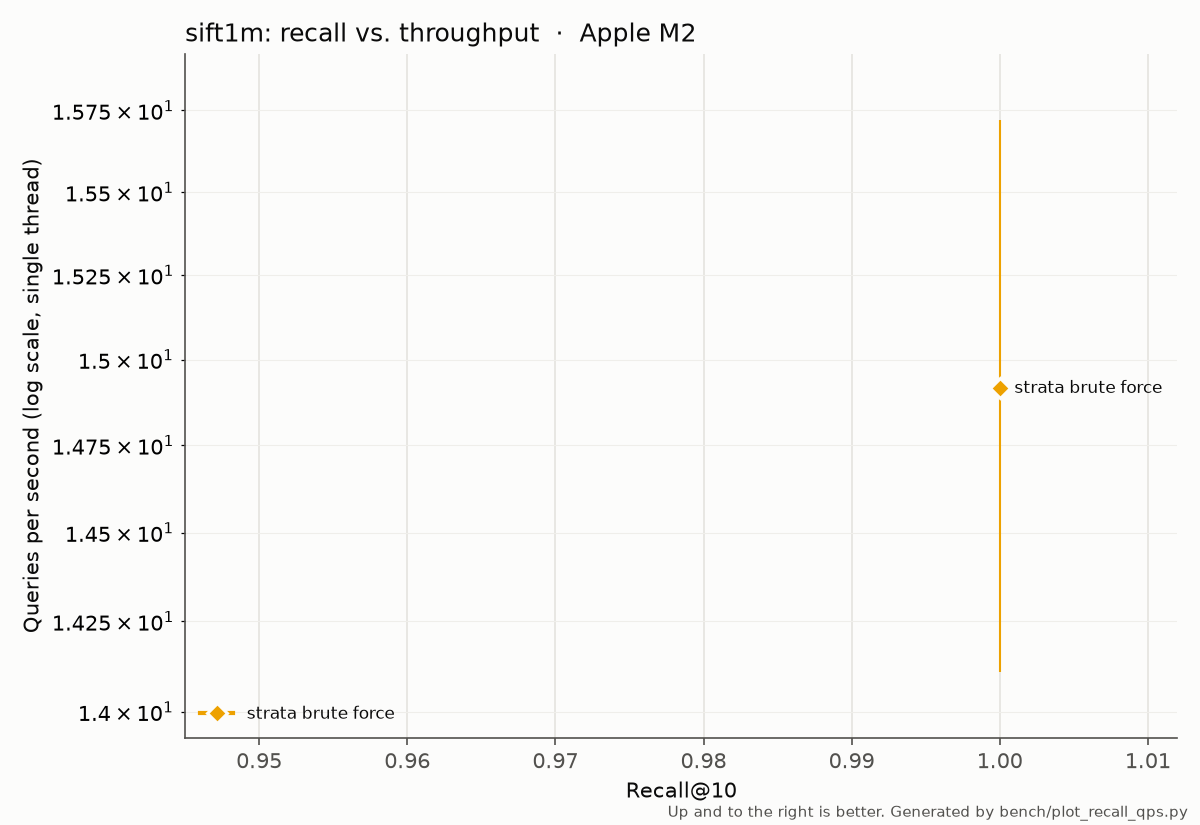
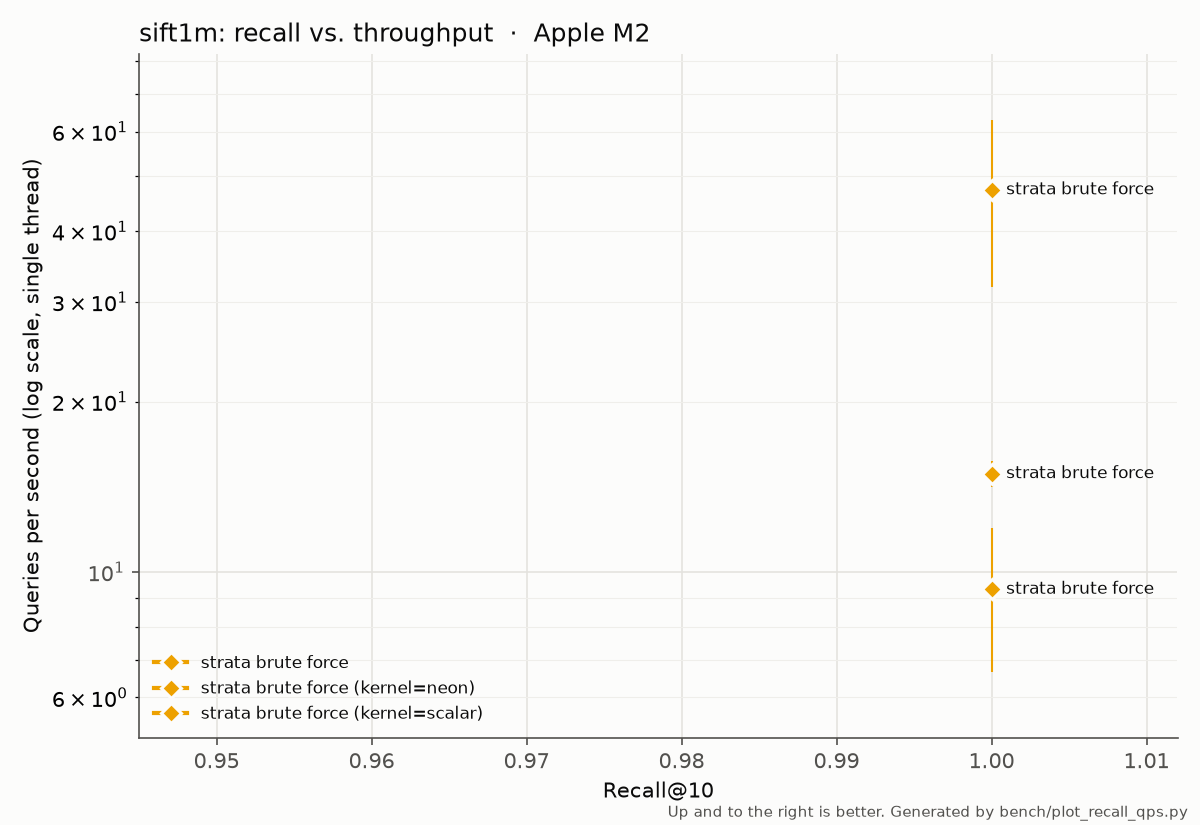
Bench: unique result filenames (microseconds) and never overwrite
Three thread-scaling runs on SIFT10K finished within one second and
overwrote each other's result file.

diff --git a/bench/run_micro_bench.py b/bench/run_micro_bench.py
@@ -14,7 +14,7 @@ import sys
 import tempfile
 from pathlib import Path
 
-from benchmeta import REPO_ROOT, metadata, timestamp_slug
+from benchmeta import REPO_ROOT, metadata, timestamp_slug, write_new
 
 
 def main(argv: list[str] | None = None) -> int:
@@ -49,9 +49,8 @@ def main(argv: list[str] | None = None) -> int:
         print("warning: Google Benchmark library is a debug build", file=sys.stderr)
 
     record = {**metadata(), "command": cmd, "benchmark": gbench}
-    args.out_dir.mkdir(parents=True, exist_ok=True)
     out_path = args.out_dir / f"{args.name}-{timestamp_slug()}.json"
-    out_path.write_text(json.dumps(record, indent=2) + "\n")
+    write_new(out_path, json.dumps(record, indent=2) + "\n")
     print(f"saved {out_path.relative_to(REPO_ROOT)}")
     return 0
 

diff --git a/bench/records.py b/bench/records.py
@@ -21,7 +21,7 @@ import statistics
 from pathlib import Path
 from typing import Any
 
-from benchmeta import REPO_ROOT, metadata, timestamp_slug
+from benchmeta import REPO_ROOT, metadata, timestamp_slug, write_new
 
 SUMMARY_FIELDS = [
     "qps",
@@ -83,8 +83,7 @@ def save_record(
         "raw": raw or {},
     }
     path = out_dir / dataset / f"{library}-{index}-{timestamp_slug()}.json"
-    path.parent.mkdir(parents=True, exist_ok=True)
-    path.write_text(json.dumps(record, indent=2) + "\n")
+    write_new(path, json.dumps(record, indent=2) + "\n")
     return path
 
 

diff --git a/bench/benchmeta.py b/bench/benchmeta.py
@@ -63,4 +63,12 @@ def metadata() -> dict[str, Any]:
 
 
 def timestamp_slug() -> str:
-    return dt.datetime.now().strftime("%Y%m%d-%H%M%S")
+    # Microseconds: short runs finish within the same second and must not share a filename.
+    return dt.datetime.now().strftime("%Y%m%d-%H%M%S-%f")
+
+
+def write_new(path: Path, text: str) -> None:
+    """Write a result file, refusing to overwrite an existing one."""
+    path.parent.mkdir(parents=True, exist_ok=True)
+    with path.open("x") as f:
+        f.write(text)

diff --git a/results/tables.md b/results/tables.md
@@ -7,6 +7,8 @@ Generated by `bench/make_tables.py`. Do not edit by hand.
 | Dataset | Library | Index | Build params | Search params | Machine | Threads | Runs | Recall@k | Recall@k by id | QPS | p50 µs | p99 µs | Build s | Commit |
 |---|---|---|---|---|---|---|---|---|---|---|---|---|---|---|
 | sift1m | strata | brute_force | — | — | Apple M2 | 1 | 3 | 1.0000 (k=10) | 0.9995 | 14.9 ± 0.8 | 63122.9 ± 1558.6 | 149750.7 ± 47282.8 | 0.19 | `d11955ac` |
+| sift1m | strata | brute_force | kernel=neon | — | Apple M2 | 1 | 3 | 1.0000 (k=10) | 0.9995 | 47.3 ± 15.5 | 13208.2 ± 1918.0 | 218304.1 ± 113923.0 | 0.53 | `73d32e6b` |
+| sift1m | strata | brute_force | kernel=scalar | — | Apple M2 | 1 | 3 | 1.0000 (k=10) | 0.9995 | 9.3 ± 2.7 | 82567.3 ± 18078.7 | 482507.4 ± 164686.1 | 0.21 | `73d32e6b` |
 | siftsmall | faiss | flat | — | — | Apple M2 | 1 | 5 | 1.0000 (k=10) | 1.0000 | 10228.5 ± 369.2 | 99.0 ± 2.4 | 158.4 ± 67.1 | 0.00 | `d11955ac` |
 | siftsmall | faiss | hnsw | M=16, ef_construction=200 | ef_search=10 | Apple M2 | 1 | 5 | 0.9170 (k=10) | 0.9170 | 190410.5 ± 3905.2 | 8.0 ± 0.3 | 12.9 ± 2.8 | 0.74 | `d11955ac` |
 | siftsmall | faiss | hnsw | M=16, ef_construction=200 | ef_search=20 | Apple M2 | 1 | 5 | 0.9750 (k=10) | 0.9750 | 91663.1 ± 31826.6 | 15.5 ± 8.4 | 34.2 ± 37.6 | 0.74 | `d11955ac` |
@@ -21,6 +23,9 @@ Generated by `bench/make_tables.py`. Do not edit by hand.
 | siftsmall | hnswlib | hnsw | M=16, ef_construction=200 | ef_search=160 | Apple M2 | 1 | 5 | 1.0000 (k=10) | 1.0000 | 8045.3 ± 127.6 | 130.7 ± 3.1 | 201.9 ± 36.1 | 1.70 | `d11955ac` |
 | siftsmall | hnswlib | hnsw | M=16, ef_construction=200 | ef_search=320 | Apple M2 | 1 | 5 | 1.0000 (k=10) | 1.0000 | 4903.4 ± 163.0 | 215.8 ± 5.4 | 292.7 ± 29.5 | 1.70 | `d11955ac` |
 | siftsmall | strata | brute_force | — | — | Apple M2 | 1 | 5 | 1.0000 (k=10) | 1.0000 | 1530.6 ± 88.0 | 625.7 ± 14.8 | 1164.6 ± 524.2 | 0.00 | `d11955ac` |
+| siftsmall | strata | brute_force | kernel=neon | — | Apple M2 | 1 | 5 | 1.0000 (k=10) | 1.0000 | 8320.8 ± 826.0 | 109.4 ± 6.1 | 249.4 ± 103.3 | 0.00 | `73d32e6b` |
+| siftsmall | strata | brute_force | kernel=scalar | — | Apple M2 | 1 | 5 | 1.0000 (k=10) | 1.0000 | 1583.4 ± 20.4 | 623.2 ± 6.5 | 743.8 ± 68.8 | 0.00 | `73d32e6b` |
+| siftsmall | strata | brute_force | kernel=neon | — | Apple M2 | 8 | 5 | 1.0000 (k=10) | 1.0000 | 41887.0 ± 2366.4 | 114.7 ± 5.9 | 330.2 ± 73.4 | 0.00 | `902632fc` |
 
 Recall@k is tie-aware (ann-benchmarks definition): a result counts if it is no farther
 than the k-th true neighbor. Recall by id is strict id matching; it can be lower when
@@ -31,15 +36,27 @@ overhead (their QPS does not). `*` = uncommitted changes when measured.
 
 | Benchmark | Machine | ns/op (mean ± stdev) | Commit |
 |---|---|---|---|
-| scalar/cosine/100 | Apple M2 | 62.84 ± 0.80 | `1412f4e4` |
-| scalar/cosine/128 | Apple M2 | 81.86 ± 1.09 | `1412f4e4` |
-| scalar/cosine/384 | Apple M2 | 307.68 ± 1.54 | `1412f4e4` |
-| scalar/cosine/768 | Apple M2 | 649.71 ± 4.09 | `1412f4e4` |
-| scalar/ip/100 | Apple M2 | 36.69 ± 0.48 | `1412f4e4` |
-| scalar/ip/128 | Apple M2 | 55.05 ± 1.58 | `1412f4e4` |
-| scalar/ip/384 | Apple M2 | 229.10 ± 2.20 | `1412f4e4` |
-| scalar/ip/768 | Apple M2 | 575.86 ± 5.23 | `1412f4e4` |
-| scalar/l2/100 | Apple M2 | 37.49 ± 0.25 | `1412f4e4` |
-| scalar/l2/128 | Apple M2 | 62.76 ± 2.27 | `1412f4e4` |
-| scalar/l2/384 | Apple M2 | 241.08 ± 6.10 | `1412f4e4` |
-| scalar/l2/768 | Apple M2 | 579.22 ± 2.54 | `1412f4e4` |
+| neon/cosine/100 | Apple M2 | 10.53 ± 0.11 | `73d32e6b` |
+| neon/cosine/128 | Apple M2 | 13.74 ± 0.14 | `73d32e6b` |
+| neon/cosine/384 | Apple M2 | 46.86 ± 1.10 | `73d32e6b` |
+| neon/cosine/768 | Apple M2 | 104.82 ± 7.04 | `73d32e6b` |
+| neon/ip/100 | Apple M2 | 5.86 ± 0.13 | `73d32e6b` |
+| neon/ip/128 | Apple M2 | 7.75 ± 0.83 | `73d32e6b` |
+| neon/ip/384 | Apple M2 | 21.71 ± 0.58 | `73d32e6b` |
+| neon/ip/768 | Apple M2 | 45.27 ± 0.43 | `73d32e6b` |
+| neon/l2/100 | Apple M2 | 6.59 ± 0.19 | `73d32e6b` |
+| neon/l2/128 | Apple M2 | 7.85 ± 0.06 | `73d32e6b` |
+| neon/l2/384 | Apple M2 | 24.17 ± 0.15 | `73d32e6b` |
+| neon/l2/768 | Apple M2 | 50.05 ± 0.74 | `73d32e6b` |
+| scalar/cosine/100 | Apple M2 | 63.70 ± 1.61 | `73d32e6b` |
+| scalar/cosine/128 | Apple M2 | 85.60 ± 1.18 | `73d32e6b` |
+| scalar/cosine/384 | Apple M2 | 327.48 ± 6.44 | `73d32e6b` |
+| scalar/cosine/768 | Apple M2 | 662.27 ± 10.03 | `73d32e6b` |
+| scalar/ip/100 | Apple M2 | 38.74 ± 0.29 | `73d32e6b` |
+| scalar/ip/128 | Apple M2 | 58.55 ± 1.12 | `73d32e6b` |
+| scalar/ip/384 | Apple M2 | 245.92 ± 5.65 | `73d32e6b` |
+| scalar/ip/768 | Apple M2 | 594.49 ± 9.88 | `73d32e6b` |
+| scalar/l2/100 | Apple M2 | 40.77 ± 1.36 | `73d32e6b` |
+| scalar/l2/128 | Apple M2 | 66.16 ± 1.03 | `73d32e6b` |
+| scalar/l2/384 | Apple M2 | 255.84 ± 7.95 | `73d32e6b` |
+| scalar/l2/768 | Apple M2 | 620.27 ± 8.83 | `73d32e6b` |
